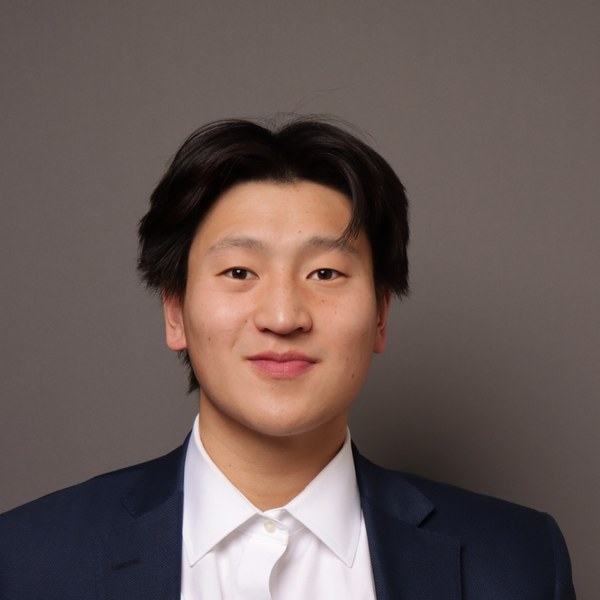
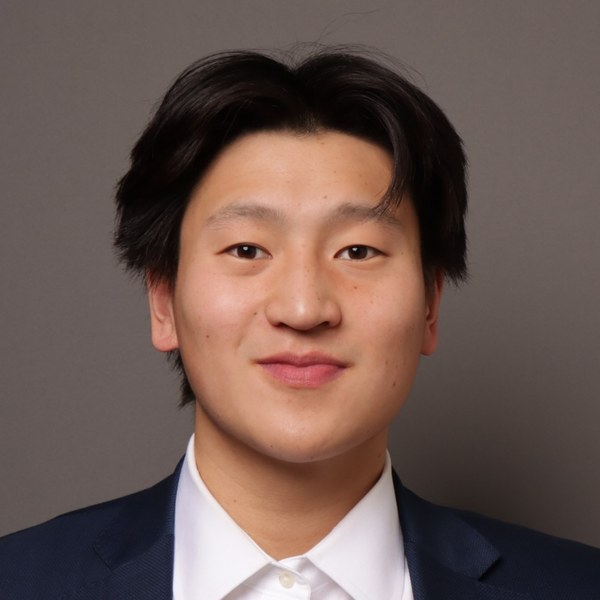
small update

diff --git a/_pages/publications.html b/_pages/publications.html
@@ -7,7 +7,7 @@ author_profile: true
 
 {% include base_path %}
 
-<p class="wordwrap">Peer-reviewed articles and letters since 2020, newest first. The complete list, including earlier work on mathematical biology, optimal control and differential games (2005–2019), is on <a href="{{ site.author.googlescholar }}">Google Scholar</a>, <a href="{{ site.author.orcid }}">ORCID</a> and <a href="https://researchmap.jp/aakhmetz">researchmap</a>. Group members and alumni are shown in bold.</p>
+<p class="wordwrap">Peer-reviewed articles and letters since 2020, newest first. The complete list, including earlier work on mathematical biology, optimal control and differential games (2005–2019), is on <a href="{{ site.author.googlescholar }}">Google Scholar</a>, <a href="https://orcid.org/0000-0003-3269-7351">ORCID</a> and <a href="https://researchmap.jp/aakhmetz">researchmap</a>. Group members and alumni are shown in bold.</p>
 
 {% assign articles = site.data.publications | where: "type", "original" %}
 {% assign preprints = site.data.publications | where: "type", "preprint" %}

diff --git a/_sass/layout/_page.scss b/_sass/layout/_page.scss
@@ -374,18 +374,6 @@
 
 
 /*
-   Footer
-   ========================================================================== */
-
-/* The site has no footer content (_includes/footer.html is empty), but the
-   template pins .page__footer to the bottom of the window. Hide the empty box;
-   the scripts inside it still run. */
-.page__footer {
-  display: none;
-}
-
-
-/*
    People page (group members, friends, alumni)
    ========================================================================== */
 

diff --git a/_layouts/default.html b/_layouts/default.html
@@ -18,12 +18,9 @@ layout: compress
 
     {{ content }}
 
-    <div class="page__footer">
-      <footer>
-        {% include footer/custom.html %}
-        {% include footer.html %}
-      </footer>
-    </div>
+    {% comment %} No footer box: the site has no footer content. The custom
+       snippets (MathJax on pages with "math: true") are still included. {% endcomment %}
+    {% include footer/custom.html %}
 
     {% include scripts.html %}
 
